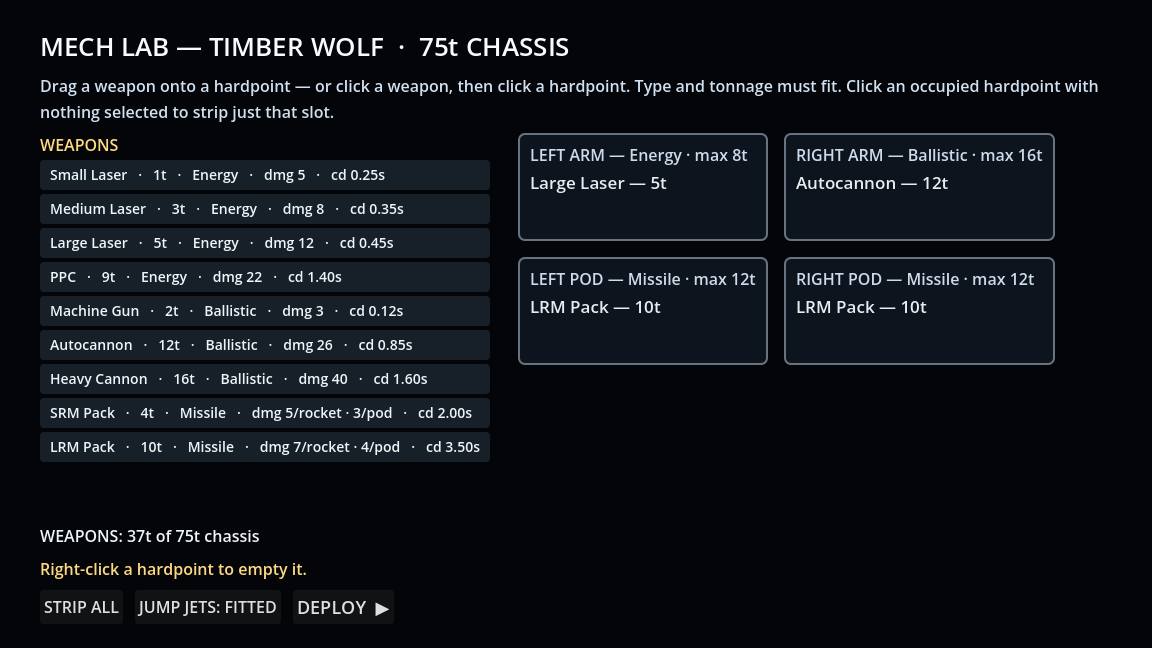
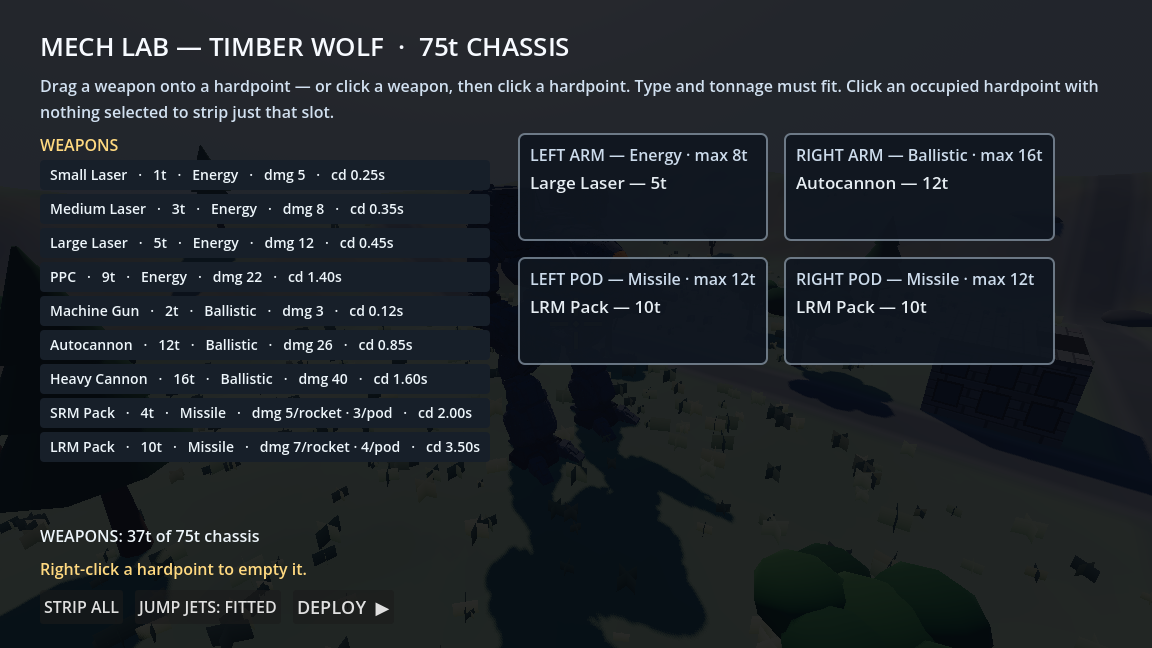
lab: translucent backdrop restored (owner) — mech visible behind
Round 18's opaque backdrop overshot: the owner wants the orbiting mech visible through the lab. Now that the backdrop rect actually covers the screen (the 0x0 fix), alpha goes to 0.85 — scene dimmed, text still crisp; verified in a captured frame (proof/lab.png). The --lab-shot dev flag used for that verification stays in permanently alongside the other test flags.

diff --git a/godot/MechDuel.cs b/godot/MechDuel.cs
@@ -128,6 +128,7 @@ public partial class MechDuel : Node3D
     private MechWalker _enemy;
     private Camera3D _cam;
     private bool _test;
+    private bool _labShot; // dev flag: capture the live MechLab to /tmp/lab_live.png and quit
     private double _simT;
 
     // interactive state
@@ -272,6 +273,7 @@ public partial class MechDuel : Node3D
             if (arg == "--weapons-test") _weaponsTest = true;
             if (arg == "--breakable-test") _breakTest = true;
             if (arg == "--terrain-test") _terrainTest = true;
+            if (arg == "--lab-shot") _labShot = true;
         }
         _hit = new HitModel();
 
@@ -4496,6 +4498,14 @@ public partial class MechDuel : Node3D
 
     public override void _Process(double delta)
     {
+        if (_labShot && Time.GetTicksMsec() > 20000)
+        {
+            _labShot = false;
+            GetViewport().GetTexture().GetImage().SavePng("/tmp/lab_live.png");
+            GD.Print("LABSHOT saved");
+            GetTree().Quit();
+            return;
+        }
 
         if (_player == null || !_player.IsReady || _enemy == null || !_enemy.IsReady) return;
         float dt = (float)delta;

diff --git a/godot/MechLab.cs b/godot/MechLab.cs
@@ -62,7 +62,7 @@ public partial class MechLab : Control
         // to nothing while the containers overflowed visibly — the
         // lab's text sat directly on the bright scene.
         SetAnchorsAndOffsetsPreset(LayoutPreset.FullRect);
-        var bg = new ColorRect { Color = new Color(0.012f, 0.02f, 0.035f, 1f) }; // fully opaque: text contrast cannot depend on the scene behind
+        var bg = new ColorRect { Color = new Color(0.012f, 0.02f, 0.035f, 0.85f) }; // translucent (owner): the mech stays visible behind the lab, dimmed enough to read against
         bg.SetAnchorsAndOffsetsPreset(LayoutPreset.FullRect);
         AddChild(bg);
 
